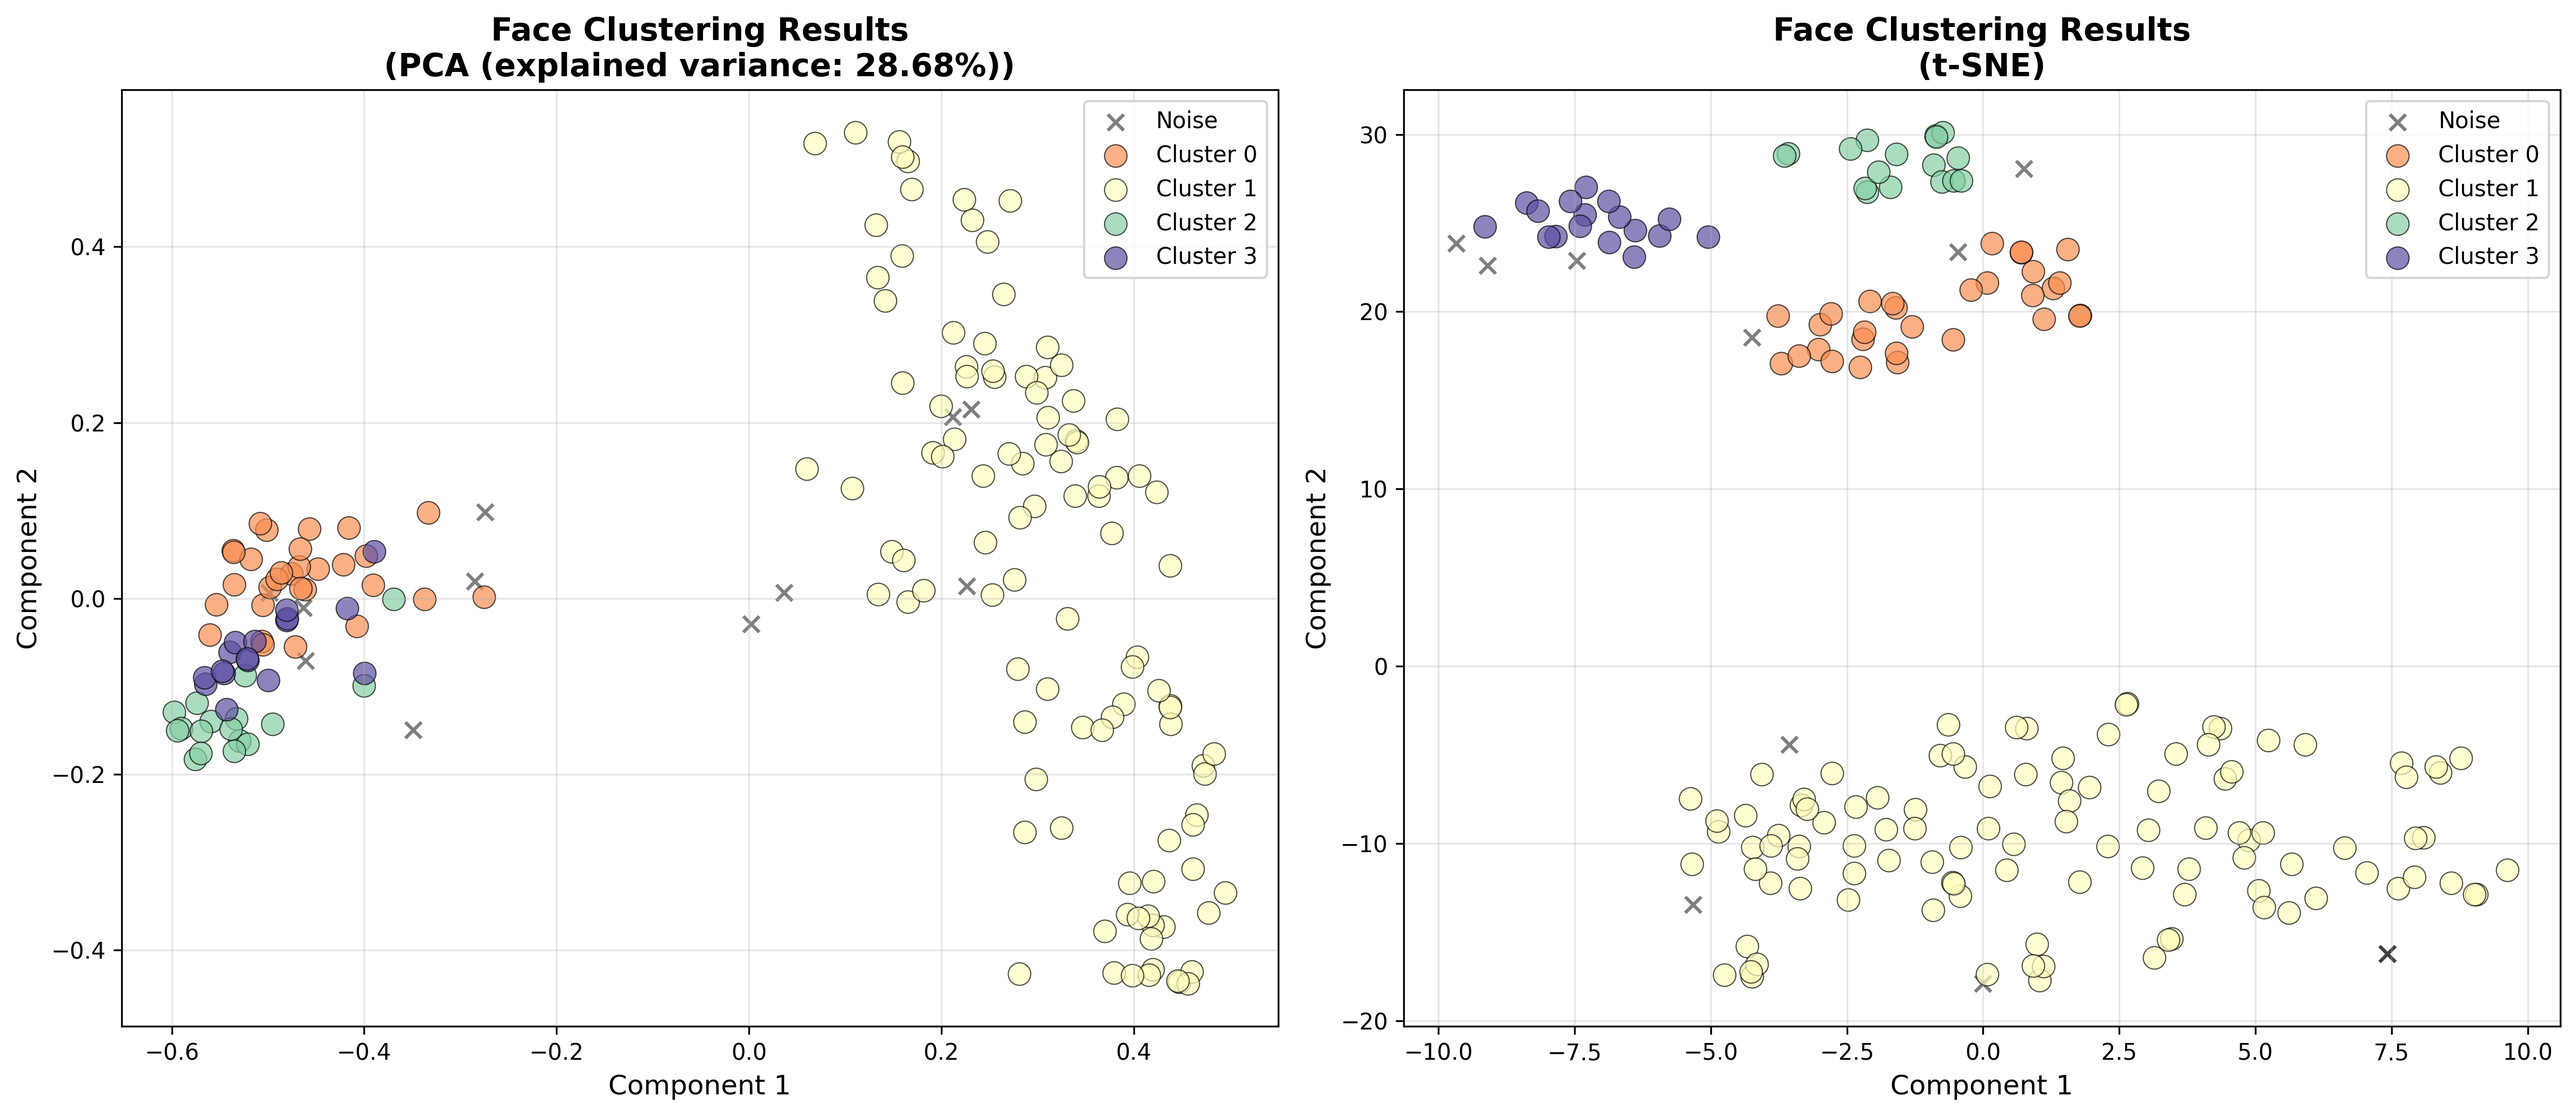
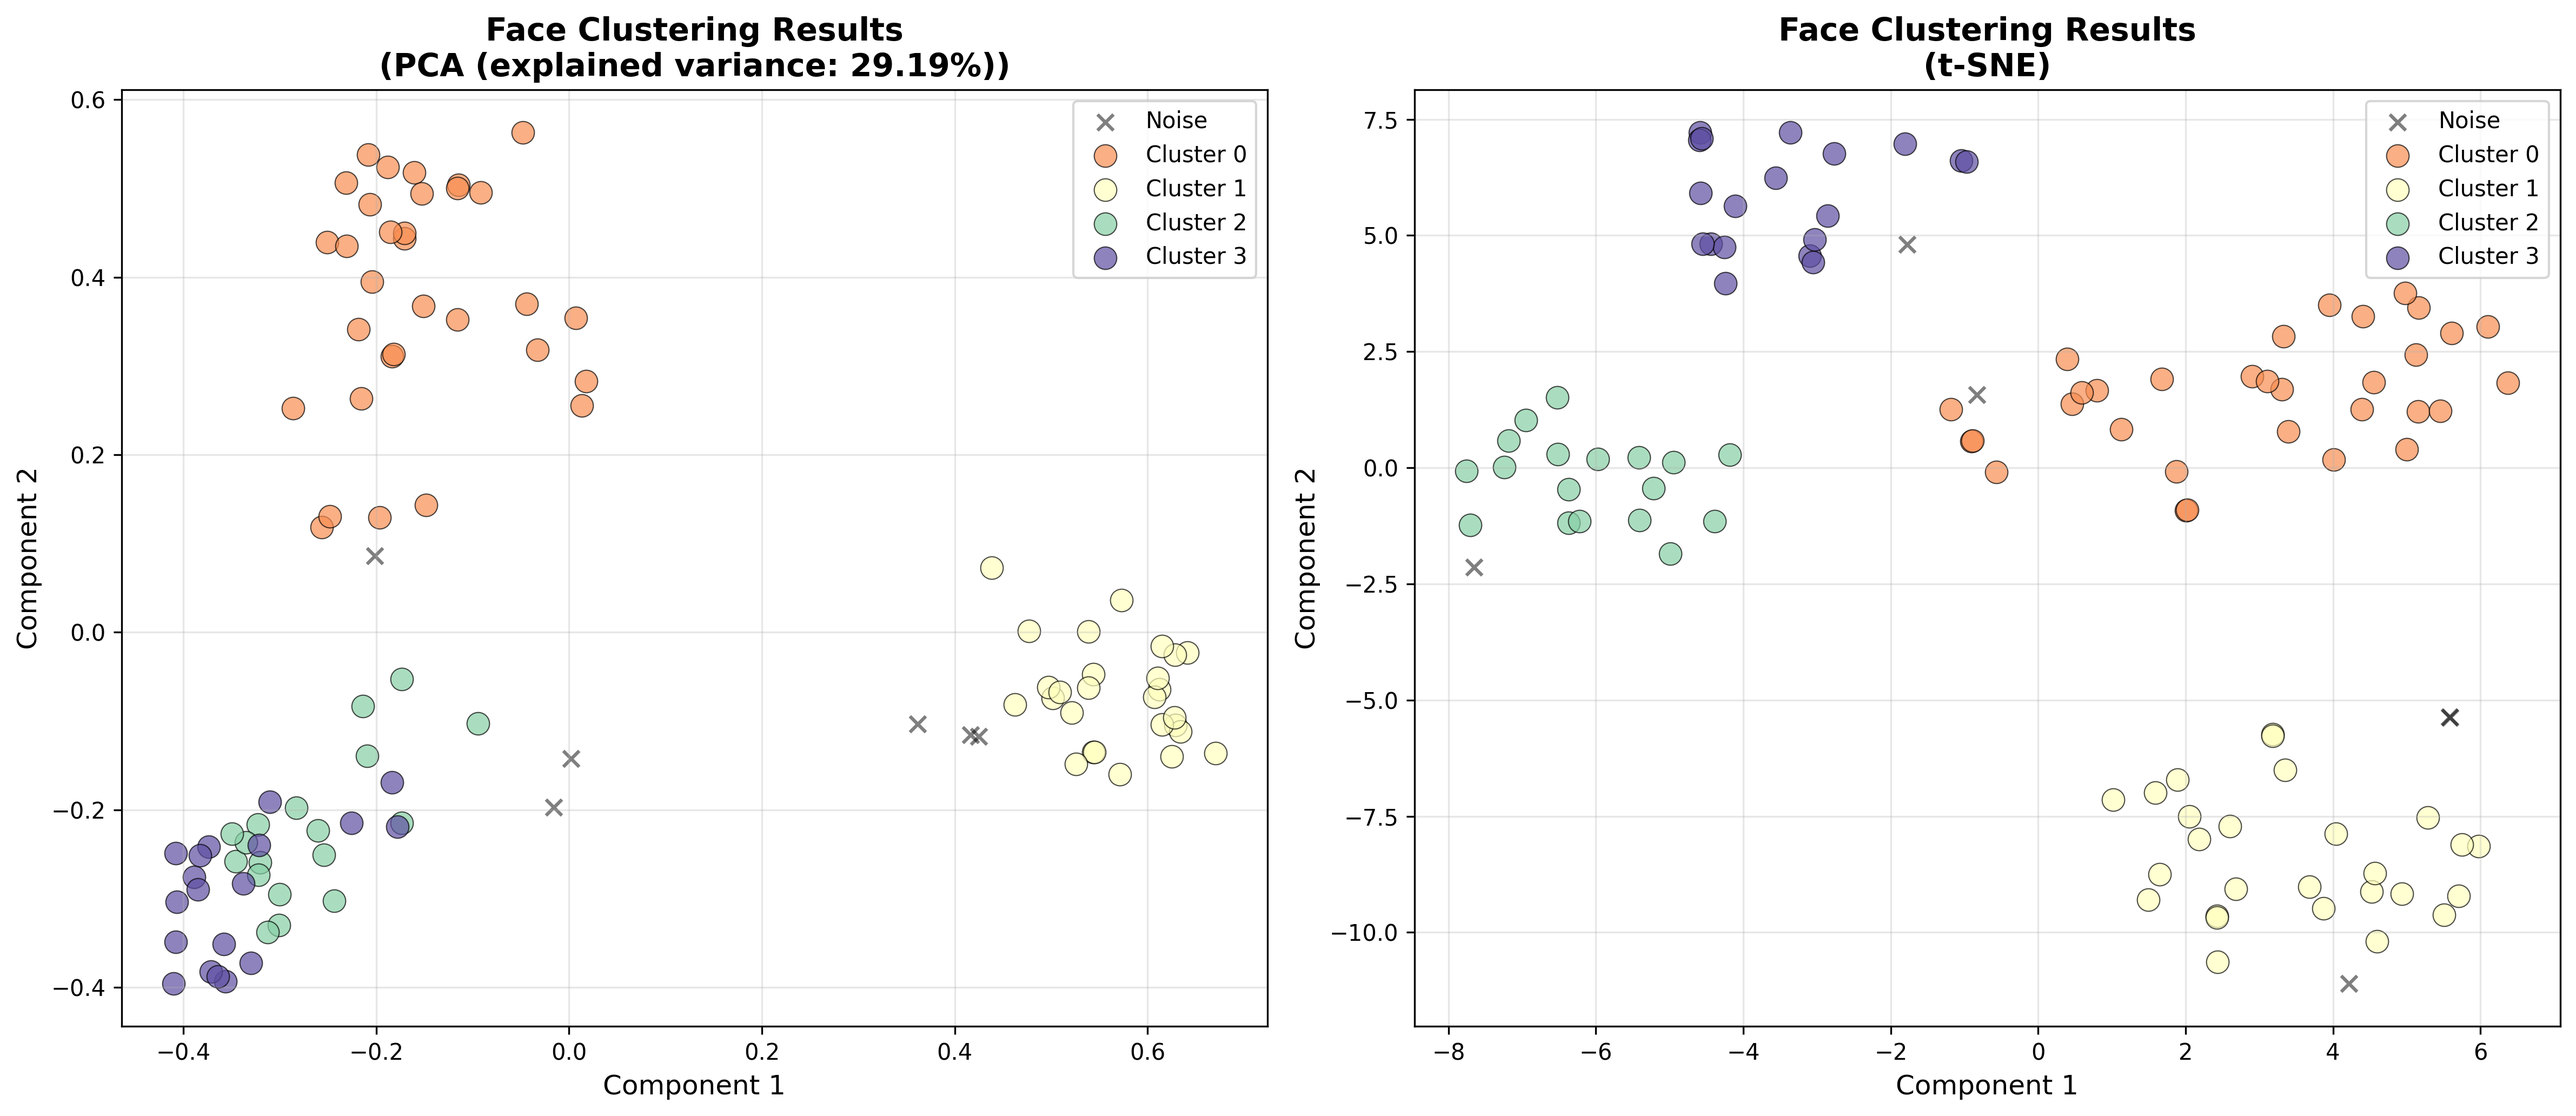
fix: downscale large images before face detection

diff --git a/2-deepface-test.py b/2-deepface-test.py
@@ -1,5 +1,6 @@
 from fileinput import filename
 import os
+import cv2
 import numpy as np
 from deepface import DeepFace
 from sklearn.cluster import DBSCAN
@@ -28,7 +29,7 @@ def get_image_paths(directory: str):
 
     return image_paths
 
-def get_embeddings(image_path: str, model_name: str = "Facenet512"):
+def get_embeddings(image_path: str, model_name: str = "Facenet512", max_side: int = 1920):
     """
     Detects faces in the image and extracts embeddings using DeepFace.
 
@@ -43,9 +44,17 @@ def get_embeddings(image_path: str, model_name: str = "Facenet512"):
     print("Processing file:", filename)
     
     try:
+        # Downscale large photos so detection doesn't run out of memory
+        img = cv2.imread(image_path)
+        if img is None:
+            raise ValueError("could not read image")
+        scale = max_side / max(img.shape[:2])
+        if scale < 1:
+            img = cv2.resize(img, None, fx=scale, fy=scale, interpolation=cv2.INTER_AREA)
+
         # DeepFace.represent returns a list of dicts (one for each face detected)
         representation = DeepFace.represent(
-            img_path=image_path,
+            img_path=img,
             model_name=model_name,
             enforce_detection=False
         )
